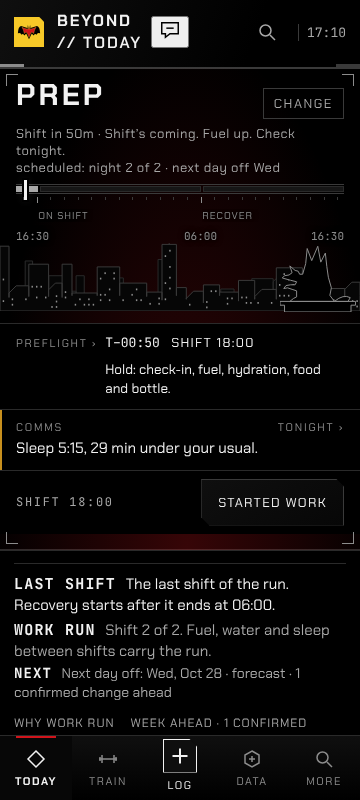
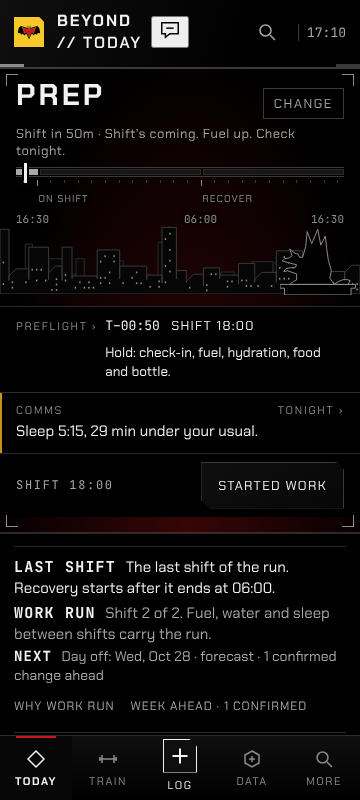
TODAY-CLARITY-001: say the run once on TODAY (#505)
WALKTHROUGH-002 findings 3-4. While the operating-state band shows
NOW and NEXT, the hero drops its "scheduled: ..." run line (the band
carries both, with their source); it comes back whenever the band
steps aside or NEXT couldn't be read. Under the NEXT label the line
drops its own "Next" ("NEXT Shift: Thu, Oct 29 · 18:00 · ...").
Screenshots refreshed.

Claude-Session: https://claude.ai/code/session_01UR9w2ohjJjB5vovSQ4fq1M

diff --git a/tests/browser/OperatorExperience001.test.tsx b/tests/browser/OperatorExperience001.test.tsx
@@ -32,7 +32,7 @@ it("names NOW and NEXT, opens the week in place, and NEXT follows a change cance
   const before = { events: await db.events.count(), exceptions: JSON.stringify(await db.scheduleExceptions.toArray()) };
   const screen = await render(<TodayScreen onOpenLife={() => {}} />);
 
-  await expect.poll(next).toBe("NEXT Next day off: Sat, Nov 21 · forecast · 1 confirmed change ahead");
+  await expect.poll(next).toBe("NEXT Day off: Sat, Nov 21 · forecast · 1 confirmed change ahead");
   await screen.getByText("WHY WORK RUN").click();
   await expect.element(screen.getByText("Next: a day off on Sat, Nov 21, from your saved schedule (a forecast, not a record).")).toBeVisible();
 
@@ -50,7 +50,7 @@ it("names NOW and NEXT, opens the week in place, and NEXT follows a change cance
   await list.getByRole("button", { name: "CANCEL CHANGE" }).click();
   expect((await db.scheduleExceptions.toArray())[0]!.status).toBe("ACTIVE");
   await list.getByRole("button", { name: "CONFIRM" }).click();
-  await expect.poll(next).toBe("NEXT Next day off: Fri, Nov 20 · forecast");
+  await expect.poll(next).toBe("NEXT Day off: Fri, Nov 20 · forecast");
   await expect.element(screen.getByRole("button", { name: "HIDE WEEK AHEAD" })).toBeVisible();
   await screen.getByRole("button", { name: "HIDE WEEK AHEAD" }).click();
   expect(document.getElementById("today-week-ahead")).toBeNull();
@@ -61,7 +61,7 @@ it("before 16:30 tonight's shift is next; with no saved schedule NEXT says it is
   await startDay();
   vi.setSystemTime(new Date(2026, 10, 18, 9)); // still Tuesday's lived day
   await render(<TodayScreen onOpenLife={() => {}} />);
-  await expect.poll(next).toBe("NEXT Next shift: Wed, Nov 18 · 18:00 · forecast");
+  await expect.poll(next).toBe("NEXT Shift: Wed, Nov 18 · 18:00 · forecast");
   await cleanup();
   // No saved schedule: today is what he recorded; the days ahead are unknown, never guessed.
   await db.schedulePatterns.clear();
@@ -69,7 +69,7 @@ it("before 16:30 tonight's shift is next; with no saved schedule NEXT says it is
   const day = await startDay();
   await setWorkContext(day.id, "WORK", "MANUAL");
   await render(<TodayScreen onOpenLife={() => {}} />);
-  await expect.poll(next).toBe("NEXT Next days: work or off not known · no saved schedule");
+  await expect.poll(next).toBe("NEXT Days: work or off not known · no saved schedule");
 });
 
 it("slice 3: names what changed since the last look on this device, once, and not the visit's own changes", async () => {
@@ -80,7 +80,7 @@ it("slice 3: names what changed since the last look on this device, once, and no
 
   // First look: nothing to compare with.
   let screen = await render(<TodayScreen onOpenLife={() => {}} />);
-  await expect.poll(next).toBe("NEXT Next day off: Fri, Nov 20 · forecast");
+  await expect.poll(next).toBe("NEXT Day off: Fri, Nov 20 · forecast");
   expect(since()).toBeNull();
   await cleanup();
 
@@ -97,12 +97,12 @@ it("slice 3: names what changed since the last look on this device, once, and no
   const list = screen.getByRole("region", { name: "Confirmed schedule changes" });
   await list.getByRole("button", { name: "CANCEL CHANGE" }).click();
   await list.getByRole("button", { name: "CONFIRM" }).click();
-  await expect.poll(next).toBe("NEXT Next day off: Fri, Nov 20 · forecast");
+  await expect.poll(next).toBe("NEXT Day off: Fri, Nov 20 · forecast");
   expect(since()).toBe("SINCE 20:00 Confirmed changes: 0 → 1");
   await cleanup();
 
   // …nor on the next one: the last look already showed it.
   screen = await render(<TodayScreen onOpenLife={() => {}} />);
-  await expect.poll(next).toBe("NEXT Next day off: Fri, Nov 20 · forecast");
+  await expect.poll(next).toBe("NEXT Day off: Fri, Nov 20 · forecast");
   expect(since()).toBeNull();
 });

diff --git a/tests/browser/TodayRun.test.tsx b/tests/browser/TodayRun.test.tsx
@@ -3,17 +3,26 @@ import { cleanup, render } from "vitest-browser-react";
 import { page } from "vitest/browser";
 import { App } from "../../src/app/App";
 import { startDay, setWorkContext, updateSchedulePattern } from "../../src/application/commands";
+import { startWorkout } from "../../src/application/trainCommands";
 
 /** SHIFT-RUN-001 on TODAY: the rotation line under the mode, from the saved schedule; his declaration wins. */
 beforeEach(async () => { vi.useFakeTimers({ toFake: ["Date"] }); localStorage.clear(); await page.viewport(360, 800); });
 afterEach(() => { cleanup(); vi.useRealTimers(); });
 const rotation = { anchorMonday: "2026-08-17", weeks: [{ workdays: [1, 2, 5, 6, 0] }, { workdays: [3, 4] }], shiftStartHour: 18, shiftEndHour: 6, postWorkTailHours: 6 };
 
-it("shows 'scheduled: night 1 of 2 · next day off Fri' on a Week B Wednesday night", async () => {
+// TODAY-CLARITY-001: the operating-state band says the run and NEXT, so the hero no longer repeats it while the band
+// shows; when the band steps aside (here, a workout in progress) the hero's line is back.
+it("on a Week B Wednesday night the band carries the run once; the hero's line returns when the band steps aside", async () => {
   vi.setSystemTime(new Date(2026, 10, 4, 19));
   await updateSchedulePattern(rotation);
   const day = await startDay(new Date(2026, 10, 4, 16, 30).toISOString()); await setWorkContext(day.id, "WORK", "MANUAL");
-  const screen = await render(<App />);
+  let screen = await render(<App />);
+  await expect.poll(() => document.querySelector("[data-life-next]")?.textContent).toBe("NEXT Day off: Fri, Nov 6 · forecast");
+  expect(document.querySelector(".today-life-state__line")?.textContent).toMatch(/^WORK RUN Shift 1 of 2\. /);
+  expect(document.querySelector(".mode-header__run")).toBeNull();
+  await cleanup();
+  await startWorkout(day.id, "A", "STANDARD", { overrideConfirmed: true });
+  screen = await render(<App />);
   await expect.element(screen.getByText("scheduled: night 1 of 2 · next day off Fri", { exact: true })).toBeVisible();
 });
 

diff --git a/src/ui/screens/today/TodayScreen.tsx b/src/ui/screens/today/TodayScreen.tsx
@@ -2707,11 +2707,16 @@ export function TodayScreen({
     </section>
   </>;
 
+  // TODAY-CLARITY-001 (WALKTHROUGH-002 finding 3): while the band shows NOW and NEXT, the hero's "scheduled: …" run
+  // line said the same thing a third time; the band carries it (with its source), so the hero drops it. When the band
+  // steps aside (an operation, the late sleep prompt) or NEXT couldn't be read, the hero keeps it.
+  const bandHidden = dominant === "OPERATION_CONFLICT" || !!activeWorkout || !!activeResetId || !!activeShiftDownId || lateRecoverWithoutSleep;
+  const bandCarriesRun = !!day && !!lifeReading && !!ahead && !bandHidden;
   if (!operationsOnly) return <div className="screen command-console today-field redesign-today">
     <SuitMode mode={pinnedPhase ?? scheduledClock.phase} />
     <OperatorHeader destination="mission">BEYOND // TODAY</OperatorHeader>
     {day ? <section className="today-situation cc-hero-wrap" aria-label="Day mode">          <ModeHeader
-            run={todayRun}
+            run={bandCarriesRun ? null : todayRun}
             now={now}
             countdown={scheduledClock.countdown ? describeCountdown(scheduledClock.countdown, now) : undefined}
             hasAction={!!recommendation && recommendation.kind !== "NO_ACTION_REQUIRED" && !decision}
@@ -2759,7 +2764,7 @@ export function TodayScreen({
     {banners && <div className="today-banners">{banners}</div>}
     {/* LIFE-STATE-001: the state frames the day, right above its next action. Like the check-in line, it steps
         aside while an operation or the late sleep prompt owns the card, so RESUME stays above the fold. */}
-    {day && <div hidden={dominant === "OPERATION_CONFLICT" || !!activeWorkout || !!activeResetId || !!activeShiftDownId || lateRecoverWithoutSleep}>
+    {day && <div hidden={bandHidden}>
       <LifeStateBand reading={lifeReading} moment={lifeMoment} ahead={ahead} since={since}
         weekAhead={() => <WeekAheadView now={now} onScheduleChanged={() => void refresh()} />} /></div>}
     {nextSection}

diff --git a/src/ui/screens/today/LifeStateBand.tsx b/src/ui/screens/today/LifeStateBand.tsx
@@ -13,6 +13,8 @@ import { useEffect, useRef, useState, type ReactNode } from "react";
  * confirmed change) in one place, with WEEK AHEAD one tap away: the week, its confirmed changes (confirm, move,
  * cancel; each confirm-first) without leaving TODAY. `weekAhead` renders only while open.
  */
+const underNext = (line: string) => line.replace(/^Next (\w)/, (_, c: string) => c.toUpperCase());
+
 export function LifeStateBand({ reading, moment = null, ahead = null, weekAhead, since = null }: {
   reading: LifeStateReading | null; moment?: LifeMomentReading | null; ahead?: AheadReading | null; weekAhead?: (() => ReactNode) | undefined;
   /** Slice 3: what changed since the last look on this device; shown only when something did. */
@@ -29,7 +31,8 @@ export function LifeStateBand({ reading, moment = null, ahead = null, weekAhead,
       {since && since.items.length > 0 && <p className="today-life-state__since" data-life-since><strong>{since.label}</strong> <span>{since.items.join(" · ")}</span></p>}
       {moment && <p className="today-life-state__moment"><strong>{moment.label}</strong> <span>{moment.line}</span></p>}
       <p className="today-life-state__line"><strong>{reading.label}</strong> <span>{reading.line}</span></p>
-      {ahead && <p className="today-life-state__next" data-life-next><strong>NEXT</strong> <span>{ahead.line}</span></p>}
+      {/* TODAY-CLARITY-001: under the NEXT label the line drops its own leading "Next" ("NEXT Day off: Wed, …"). */}
+      {ahead && <p className="today-life-state__next" data-life-next><strong>NEXT</strong> <span>{underNext(ahead.line)}</span></p>}
       <div className="today-life-state__tools">
         <details className="today-life-state__why">
           <summary>WHY {reading.label}</summary>

diff --git a/tests/browser/Walkthrough002.test.tsx b/tests/browser/Walkthrough002.test.tsx
@@ -41,7 +41,7 @@ it("walks a night-shift stretch with a confirmed change through TODAY, Week Ahea
   vi.setSystemTime(t(27, 17, 10));
   await startDay();
   let screen = await render(<App />);
-  await expect.poll(() => text("[data-life-next]")).toBe("NEXT Next day off: Wed, Oct 28 · forecast · 1 confirmed change ahead");
+  await expect.poll(() => text("[data-life-next]")).toBe("NEXT Day off: Wed, Oct 28 · forecast · 1 confirmed change ahead");
   await stop("01-today-work-run-next");
   // 2. WEEK AHEAD in place.
   await screen.getByRole("button", { name: "WEEK AHEAD · 1 CONFIRMED" }).click();
@@ -75,6 +75,6 @@ it("walks a night-shift stretch with a confirmed change through TODAY, Week Ahea
   // 6. Thu 09:00, still Wednesday's lived day: tonight's confirmed shift is next.
   vi.setSystemTime(t(29, 9));
   screen = await render(<App />);
-  await expect.poll(() => text("[data-life-next]")).toBe("NEXT Next shift: Thu, Oct 29 · 18:00 · confirmed change");
+  await expect.poll(() => text("[data-life-next]")).toBe("NEXT Shift: Thu, Oct 29 · 18:00 · confirmed change");
   await stop("06-today-before-1630");
 });

diff --git a/docs/agent/WALKTHROUGH-002.md b/docs/agent/WALKTHROUGH-002.md
@@ -35,7 +35,7 @@ There is no horizontal overflow at any stop.
 
 ### For Gavin (not changed; most useful first)
 
-3. **The same fact appears three times on TODAY.**
+3. **Fixed in TODAY-CLARITY-001: the same fact appeared three times on TODAY.**
    - On a day off (04, 06):
      - the hero says "scheduled: day off 1 of 1 · back on Thu · with a confirmed change";
      - the band says "Back on Thu.";
@@ -47,7 +47,7 @@ There is no horizontal overflow at any stop.
 
    **Recommendation:** drop the hero's "scheduled: …" run line while the band is showing. The band carries both
    facts and says where they came from. This changes TODAY's composition, so it is your call.
-4. **"NEXT Next shift:" repeats a word.** Recommendation: "NEXT Shift Thu, Oct 29 · 18:00 · confirmed change". I'd
+4. **Fixed in TODAY-CLARITY-001 (display only): "NEXT Next shift:" repeated a word.** Recommendation: "NEXT Shift Thu, Oct 29 · 18:00 · confirmed change". I'd
    do this after #502 merges, because #502's tests and Alfred's wording use the current line.
 5. **Up to five lines of state at the fold.** On a transition day a moment line stacks above the state:
    "LAST SHIFT …" over "WORK RUN …", or "RUN OVER …" over "RECOVERY …". With SINCE and NEXT that makes up to five

diff --git a/docs/UX_DECISIONS.md b/docs/UX_DECISIONS.md
@@ -3037,3 +3037,12 @@ Brief: [agent/OPERATOR-EXPERIENCE-001.md](agent/OPERATOR-EXPERIENCE-001.md).
     state change, confirmed changes or NEXT, a Garmin sleep sync.
   - Never from unloaded fields or the visit's own actions.
   - Kept in `localStorage` only; not a record, and not in backups.
+
+## TODAY-CLARITY-001 — say the run once (Gavin, 2026-11-13: "Let's work. Give me awesome stuff"; WALKTHROUGH-002 findings 3–4)
+
+- While TODAY's operating-state band shows NOW and NEXT, the hero drops its "scheduled: …" shift-run line. The band
+  already carries both facts with their source.
+- The hero keeps the line whenever the band steps aside (an operation, a workout, the late sleep prompt) or NEXT
+  couldn't be read. Nothing is lost.
+- Under the NEXT label, the line drops its own leading "Next": "NEXT Shift: Thu, Oct 29 · 18:00 · confirmed change".
+- Alfred and the helper keep the full sentence.

diff --git a/docs/agent/CURRENT_CHECKPOINT.md b/docs/agent/CURRENT_CHECKPOINT.md
@@ -3490,3 +3490,10 @@ Report: [WALKTHROUGH-002.md](WALKTHROUGH-002.md). Branch `ccr-88f5c085-walkthrou
   - the state stack at the fold;
   - the length of WEEK AHEAD in place.
 - **Still a field test:** #402.
+- **TODAY-CLARITY-001** (branch `ccr-88f5c085-today-clarity`) does findings 3–4:
+  - the hero no longer repeats the run while the band shows;
+  - "NEXT Next" is now "NEXT Shift: …";
+  - the screenshots were refreshed.
+- **Still open from the walkthrough:**
+  - the state stack (moment + state) at the fold;
+  - a compact WEEK AHEAD on TODAY.
